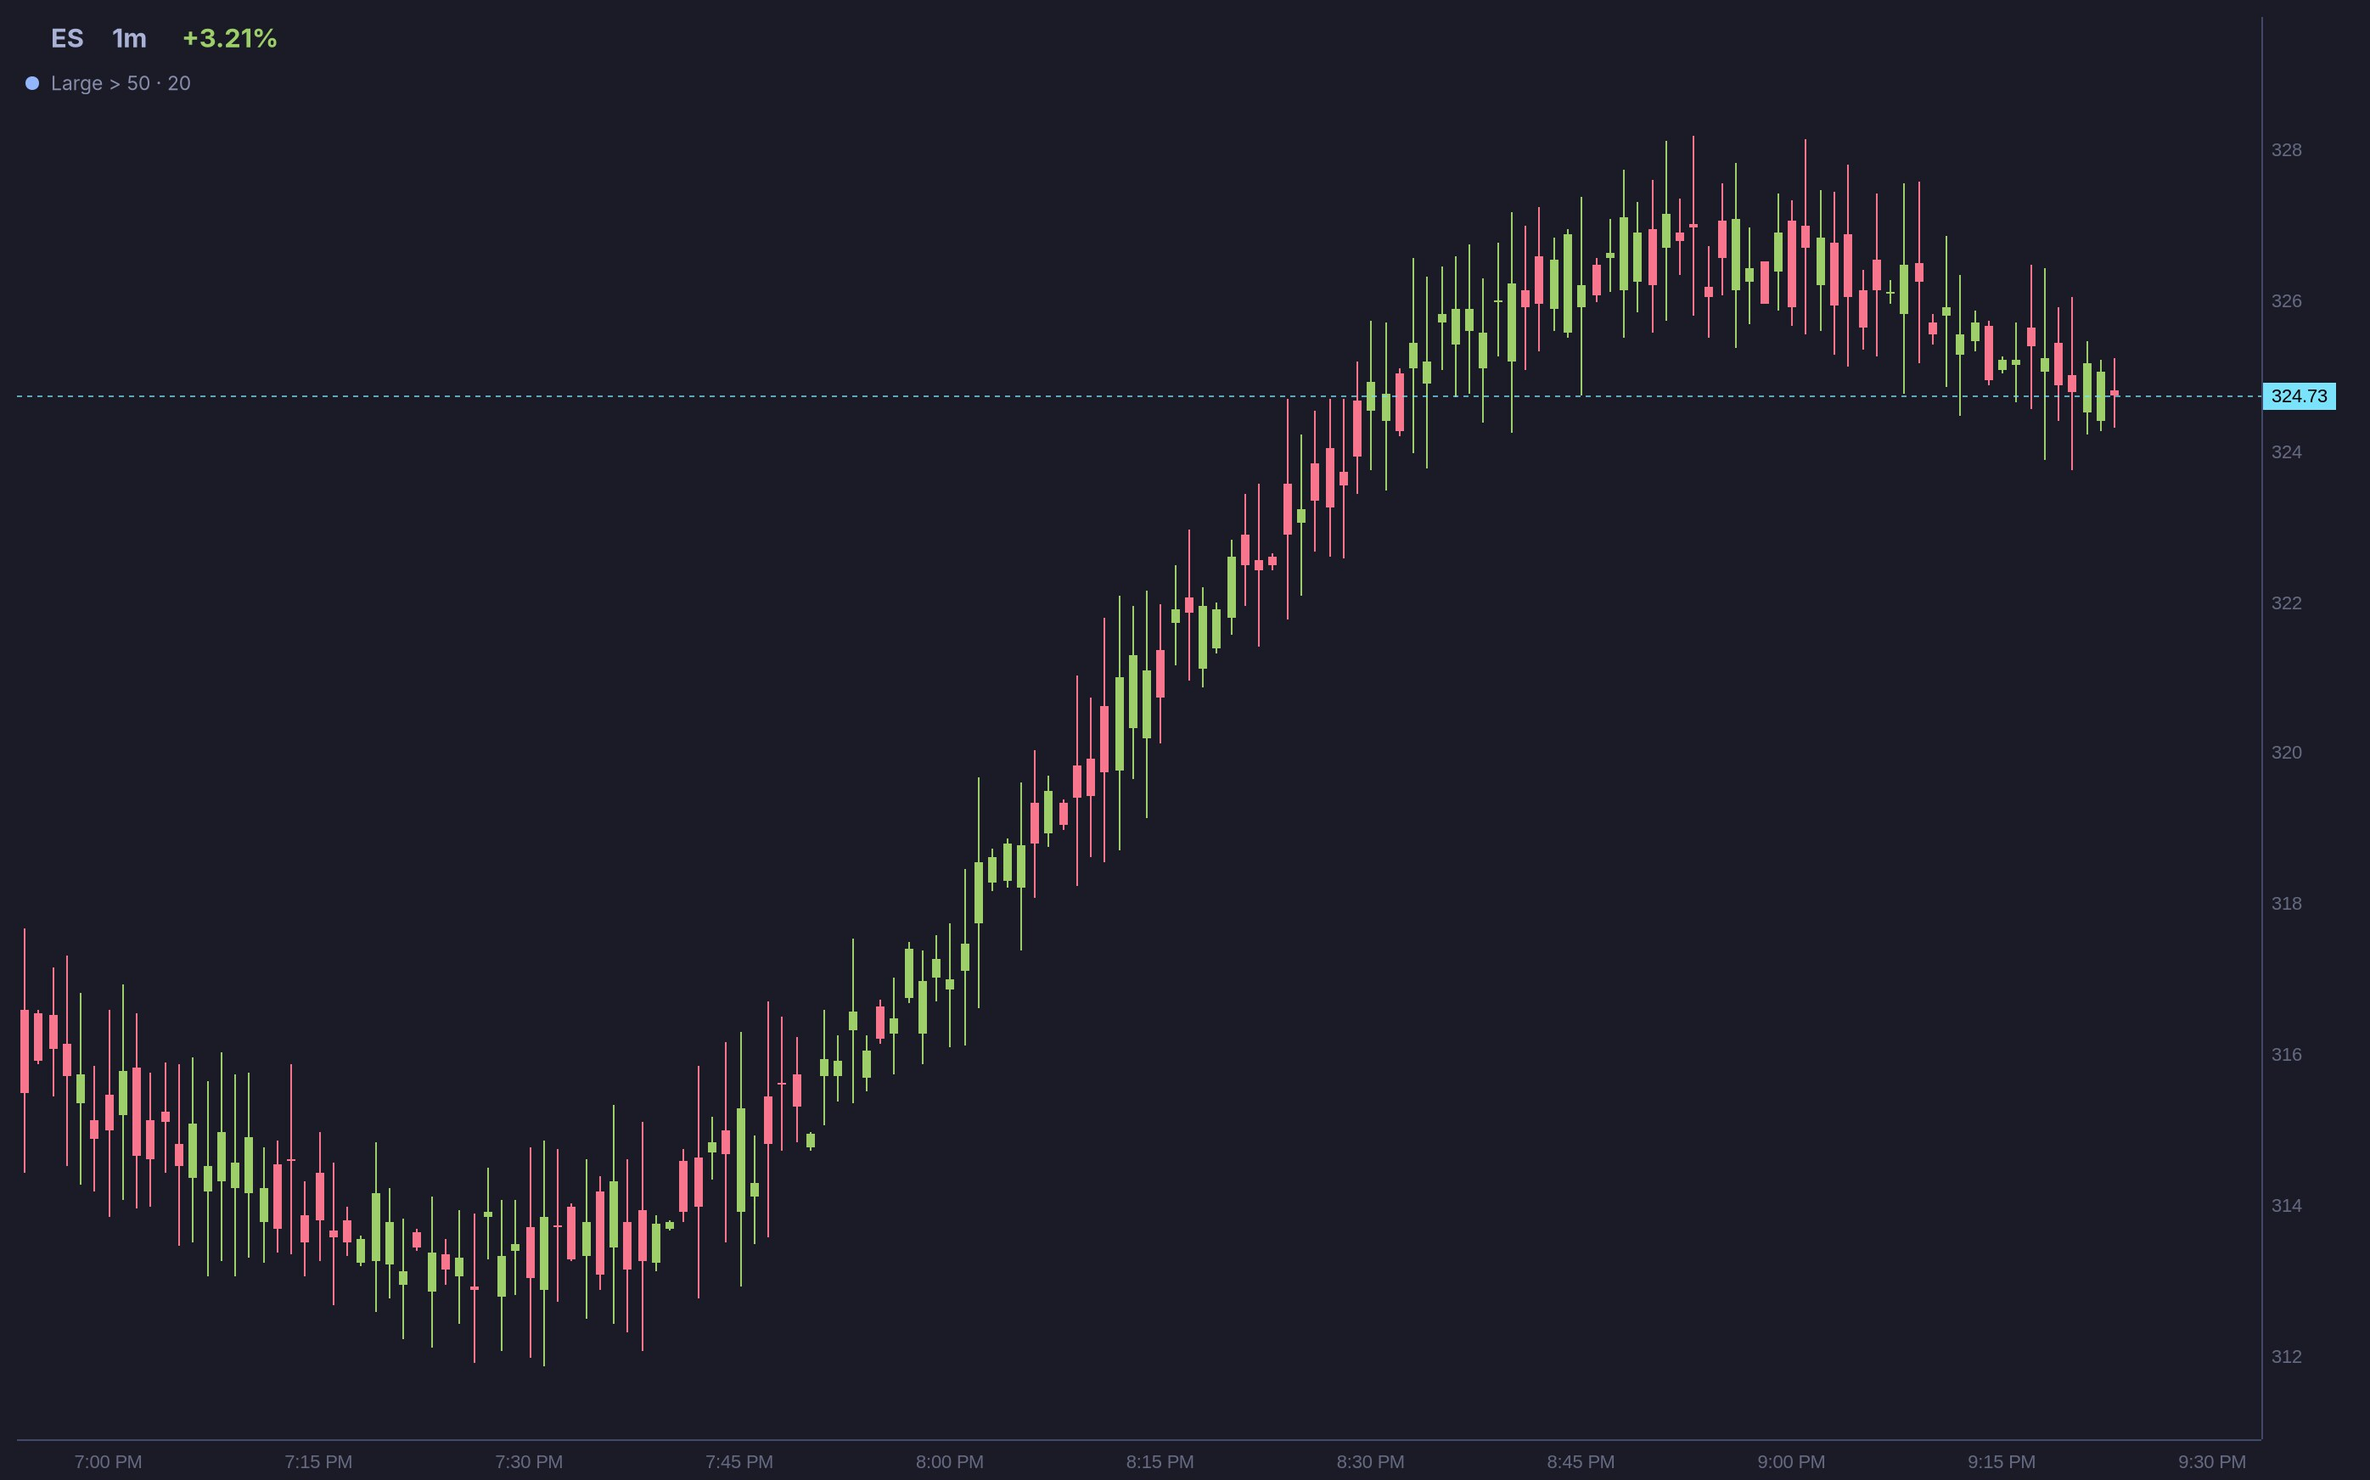
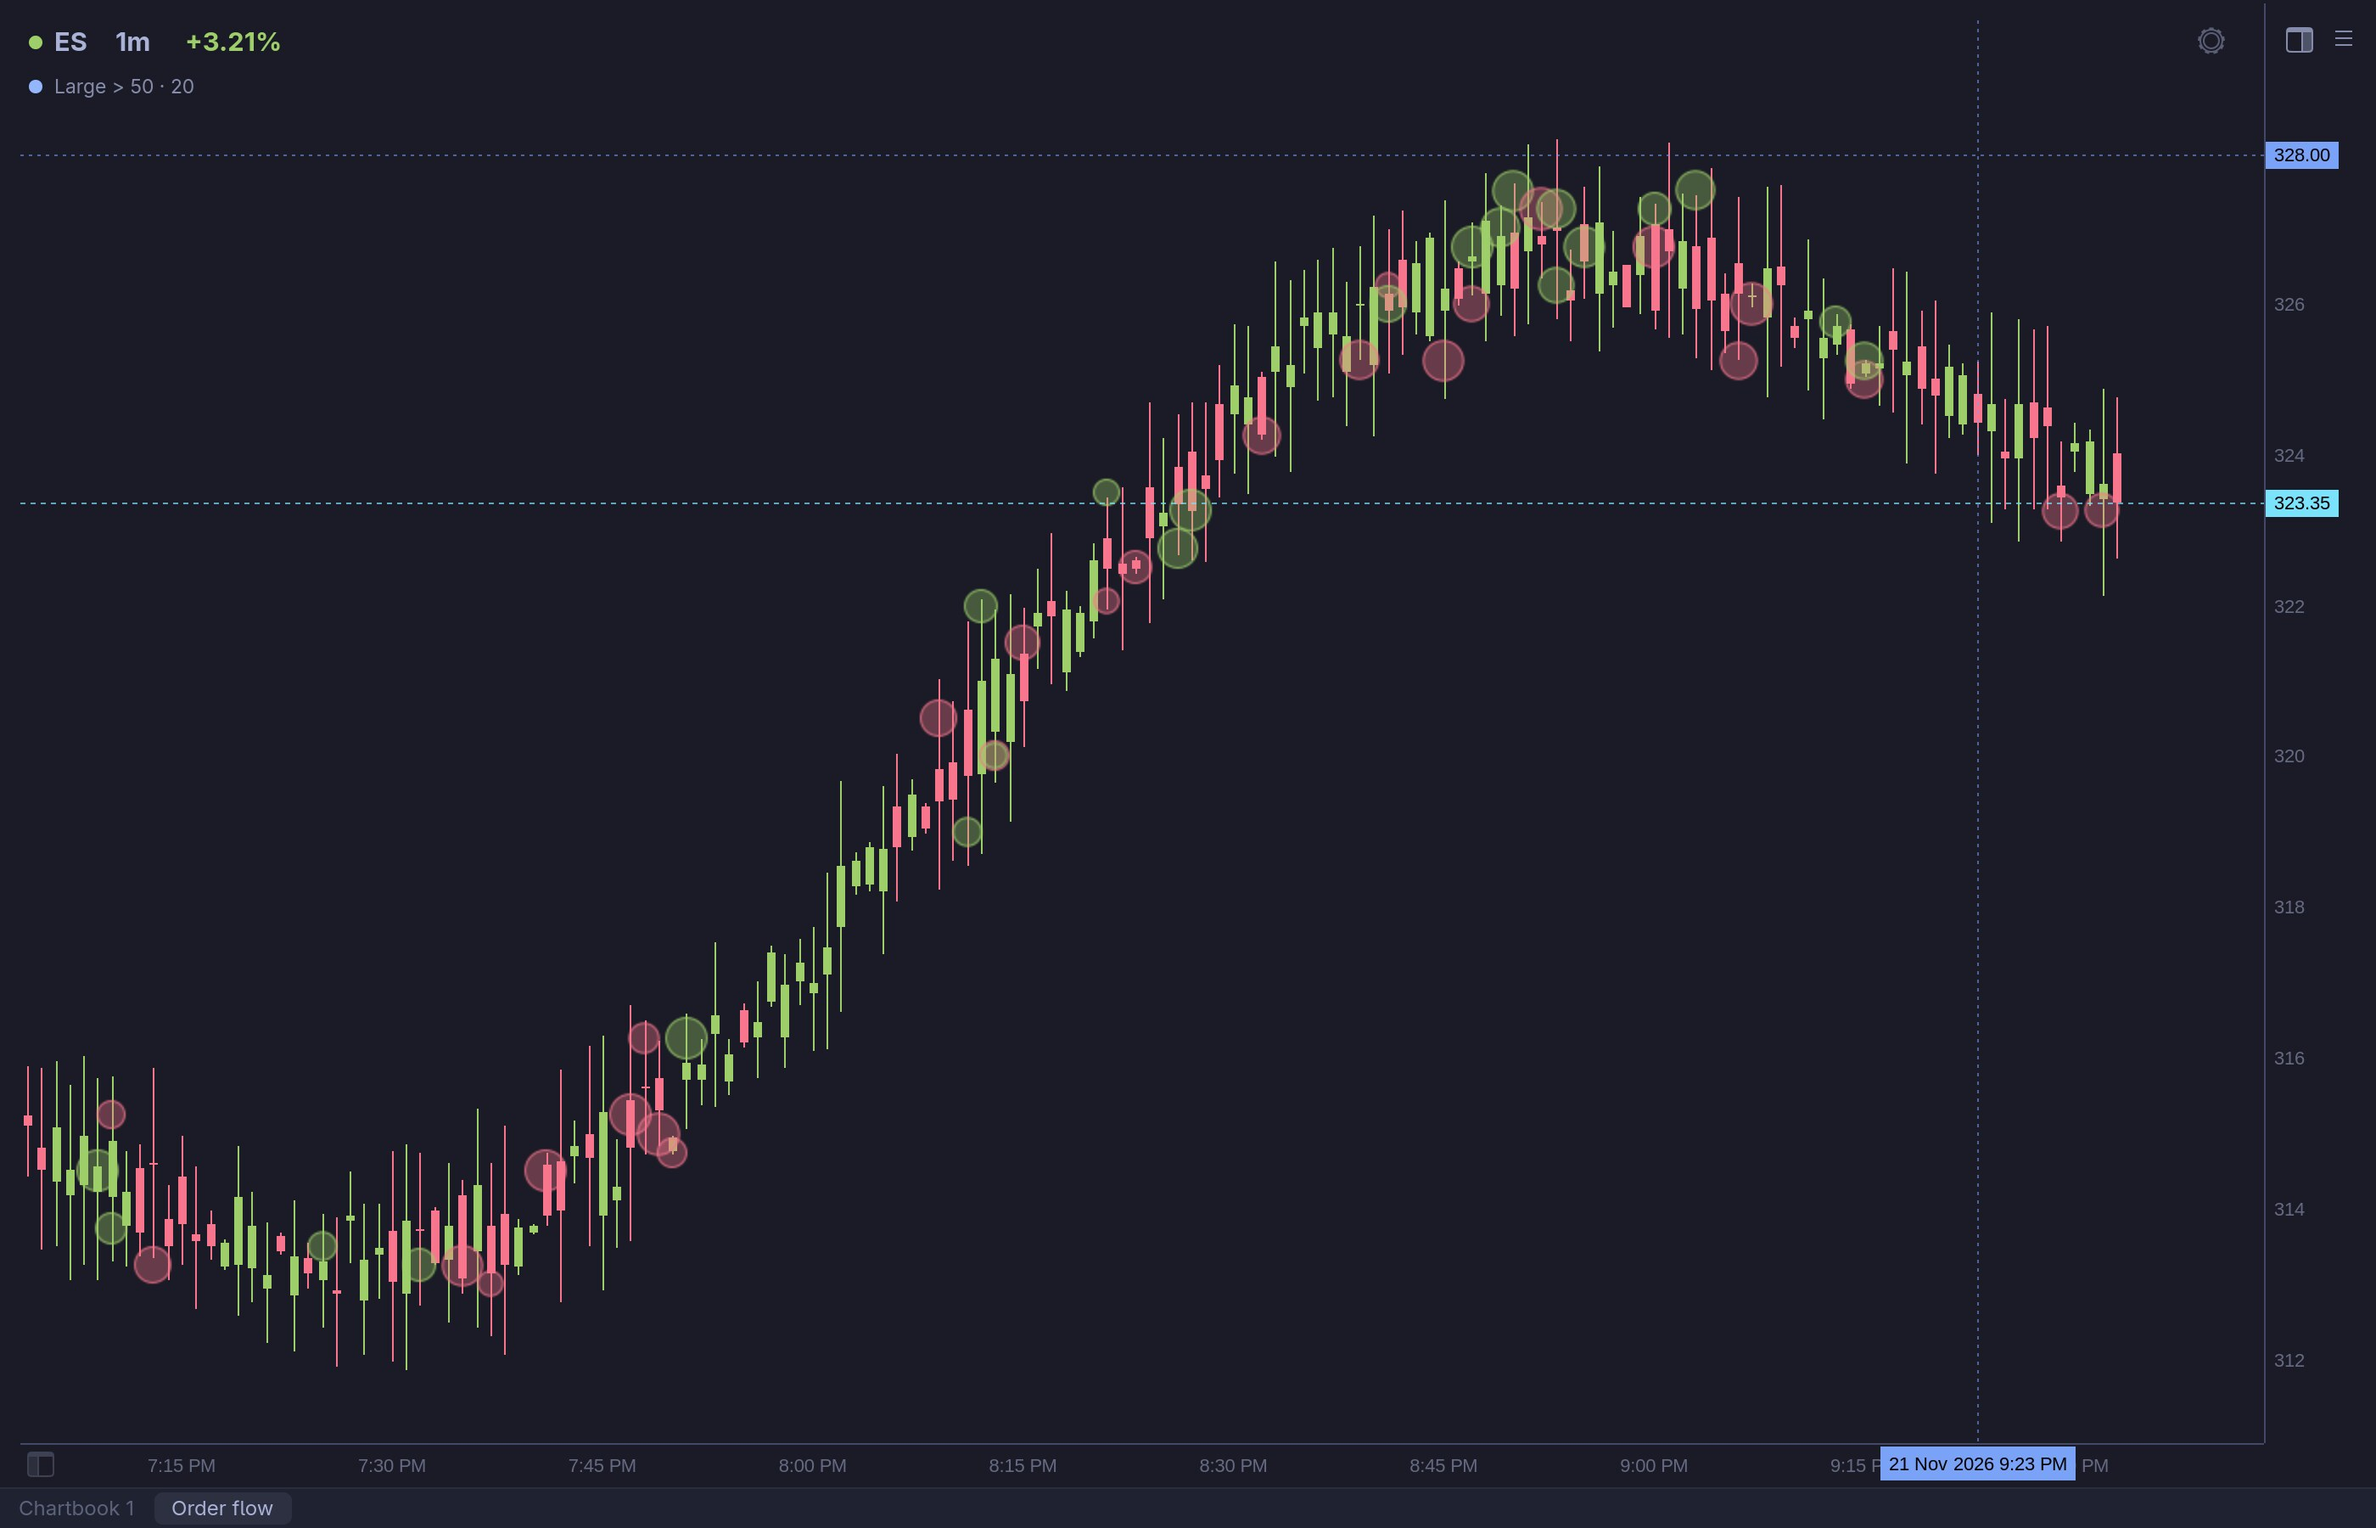
Draw large orders under the footprint, and show them in the manual

diff --git a/crates/omacharts-chart/src/view.rs b/crates/omacharts-chart/src/view.rs
@@ -7105,6 +7105,12 @@ fn draw(cr: &cairo::Context, width: f64, height: f64, state: &State) {
     draw_drawings(cr, state, &plan, &scale, true);
     // A line of the chart's own goes over the compared ones, so it is drawn
     // with them instead.
+    // Under a footprint the bubbles go beneath its rows, so they never hide
+    // a row's figure; over candles they go on top, as there is no figure.
+    let under_footprint = footprint::shown(state, &columns).is_some();
+    if under_footprint {
+        bubbles::draw_all(cr, state, &columns, &to_y);
+    }
     if !(state.drawn_as_line() && compared.is_some()) {
         draw_candles(cr, state, &columns, &to_y);
     }
@@ -10727,7 +10733,10 @@ fn draw_indicator_lines(
             | Output::Time(_)
             | Output::Unmet(_)
             | Output::Footprint => {}
-            Output::LargeOrders => bubbles::draw(cr, state, drawn, columns, to_y),
+            Output::LargeOrders if footprint::shown(state, columns).is_none() => {
+                bubbles::draw(cr, state, drawn, columns, to_y)
+            }
+            Output::LargeOrders => {}
         }
     }
 }

diff --git a/crates/omacharts-chart/src/view/bubbles.rs b/crates/omacharts-chart/src/view/bubbles.rs
@@ -44,6 +44,15 @@ pub(super) fn radius(size: u64, largest: u64, bar_px: f64) -> f64 {
     MIN_RADIUS + (most - MIN_RADIUS) * bubble_share(size, largest)
 }
 
+/// Every shown large orders indicator's bubbles.
+pub(super) fn draw_all(cr: &cairo::Context, state: &State, columns: &Columns, to_y: &impl Fn(f64) -> f64) {
+    for drawn in state.shown_indicators() {
+        if matches!(drawn.output, omacharts_engine::indicators::Output::LargeOrders) {
+            draw(cr, state, drawn, columns, to_y);
+        }
+    }
+}
+
 /// Draw `drawn`'s bubbles over the bars on screen.
 pub(super) fn draw(cr: &cairo::Context, state: &State, drawn: &Drawn, columns: &Columns, to_y: &impl Fn(f64) -> f64) {
     let Params::LargeOrders { regular, extended, compare, combine, inks } = &drawn.indicator.params else { return };

diff --git a/site/manual/indicators/order-flow/large-orders.md b/site/manual/indicators/order-flow/large-orders.md
@@ -13,12 +13,15 @@ A bubble at the price and bar of every trade bigger than a size you choose, in t
 | Over the candles | **Large > 50 · 20** | `large` | `large_orders` |
 
 <!-- regenerate:
-theme: a fresh profile's default
-window: 1400x900 @2, bin/headless-window; built with --features fakes, a sandboxed HOME and XDG_*, signed in to the Fake Rich Feed in Preferences, Data
+theme: midnight, the fallback when the sandboxed HOME has no Omarchy theme
+window: 1400x900 @2, bin/headless-window; built with --features fakes, a sandboxed HOME and XDG_*
 state:
+  key ctrl+comma; click 267 252 (Data); click 939 222 (Sign in, Fake Rich Feed)
+  click 643 419; type 12345; click 606 473; type demo; click 767 542; click 1166 91; key Escape
   omacharts chartbook create "Order flow" --symbol ES --switch
   omacharts chart set --resolution 1m
   omacharts chart indicator add large_orders
+  (wait for the bubbles: the trades are read after the bars)
 capture: bin/headless-window cli chart screenshot --output /tmp/large-orders.png; magick /tmp/large-orders.png -quality 88 site/assets/manual/indicators/large-orders.jpg
 crop: none
 -->
@@ -42,7 +45,7 @@ An order that takes more than the best price offers fills against several restin
 
 ## How far back
 
-Large orders start where the feed's trades start. On Rithmic, earlier days' trades are fetched once from its history and kept on disk, back to the first weekday it has none of. Rithmic publishes no limit on how far back that goes. On Sierra Chart they are read from its own data files. Nothing is shown for days before the trades begin, and the chart is drawn first: the bubbles of the last two days appear once their trades are read, and the earlier ones after.
+Large orders start where the feed's trades start. On Rithmic, earlier days' trades are fetched once from its history and kept. Rithmic publishes no limit on how far back that goes. On Sierra Chart they are read from its own data files. Nothing is shown for days before the trades begin, and the chart is drawn first: the bubbles of the last two days appear once their trades are read, and the earlier ones after.
 
 A continuous chart of a futures root shows the large orders of the month that is front now. An earlier month traded at prices of its own, and its trades are not moved onto the continuous chart.
 

diff --git a/site/manual/indicators/order-flow/footprint.md b/site/manual/indicators/order-flow/footprint.md
@@ -13,9 +13,11 @@ Each bar's volume at the ask less its volume at the bid, at every price it trade
 | Over the candles, from a bar width | **FP** | `fp` | `footprint` |
 
 <!-- regenerate:
-theme: a fresh profile's default
-window: 1400x900 @2, bin/headless-window; built with --features fakes, a sandboxed HOME and XDG_*, signed in to the Fake Rich Feed in Preferences, Data
+theme: midnight, the fallback when the sandboxed HOME has no Omarchy theme
+window: 1400x900 @2, bin/headless-window; built with --features fakes, a sandboxed HOME and XDG_*
 state:
+  key ctrl+comma; click 267 252 (Data); click 939 222 (Sign in, Fake Rich Feed)
+  click 643 419; type 12345; click 606 473; type demo; click 767 542; click 1166 91; key Escape
   omacharts chartbook create "Order flow" --symbol ES --switch
   omacharts chart set --resolution 1m
   omacharts chart indicator add footprint

diff --git a/site/manual/indicators/order-flow/volume-delta.md b/site/manual/indicators/order-flow/volume-delta.md
@@ -13,9 +13,11 @@ Each bar's volume traded at the ask less its volume traded at the bid, drawn as 
 | In a strip of its own | **VD** | `vd` | `volume_delta` |
 
 <!-- regenerate:
-theme: a fresh profile's default
-window: 1400x900 @2, bin/headless-window; built with --features fakes, a sandboxed HOME and XDG_*, signed in to the Fake Rich Feed in Preferences, Data
+theme: midnight, the fallback when the sandboxed HOME has no Omarchy theme
+window: 1400x900 @2, bin/headless-window; built with --features fakes, a sandboxed HOME and XDG_*
 state:
+  key ctrl+comma; click 267 252 (Data); click 939 222 (Sign in, Fake Rich Feed)
+  click 643 419; type 12345; click 606 473; type demo; click 767 542; click 1166 91; key Escape
   omacharts chartbook create "Order flow" --symbol ES --switch
   omacharts chart set --resolution 1m
   omacharts chart indicator add volume_delta
